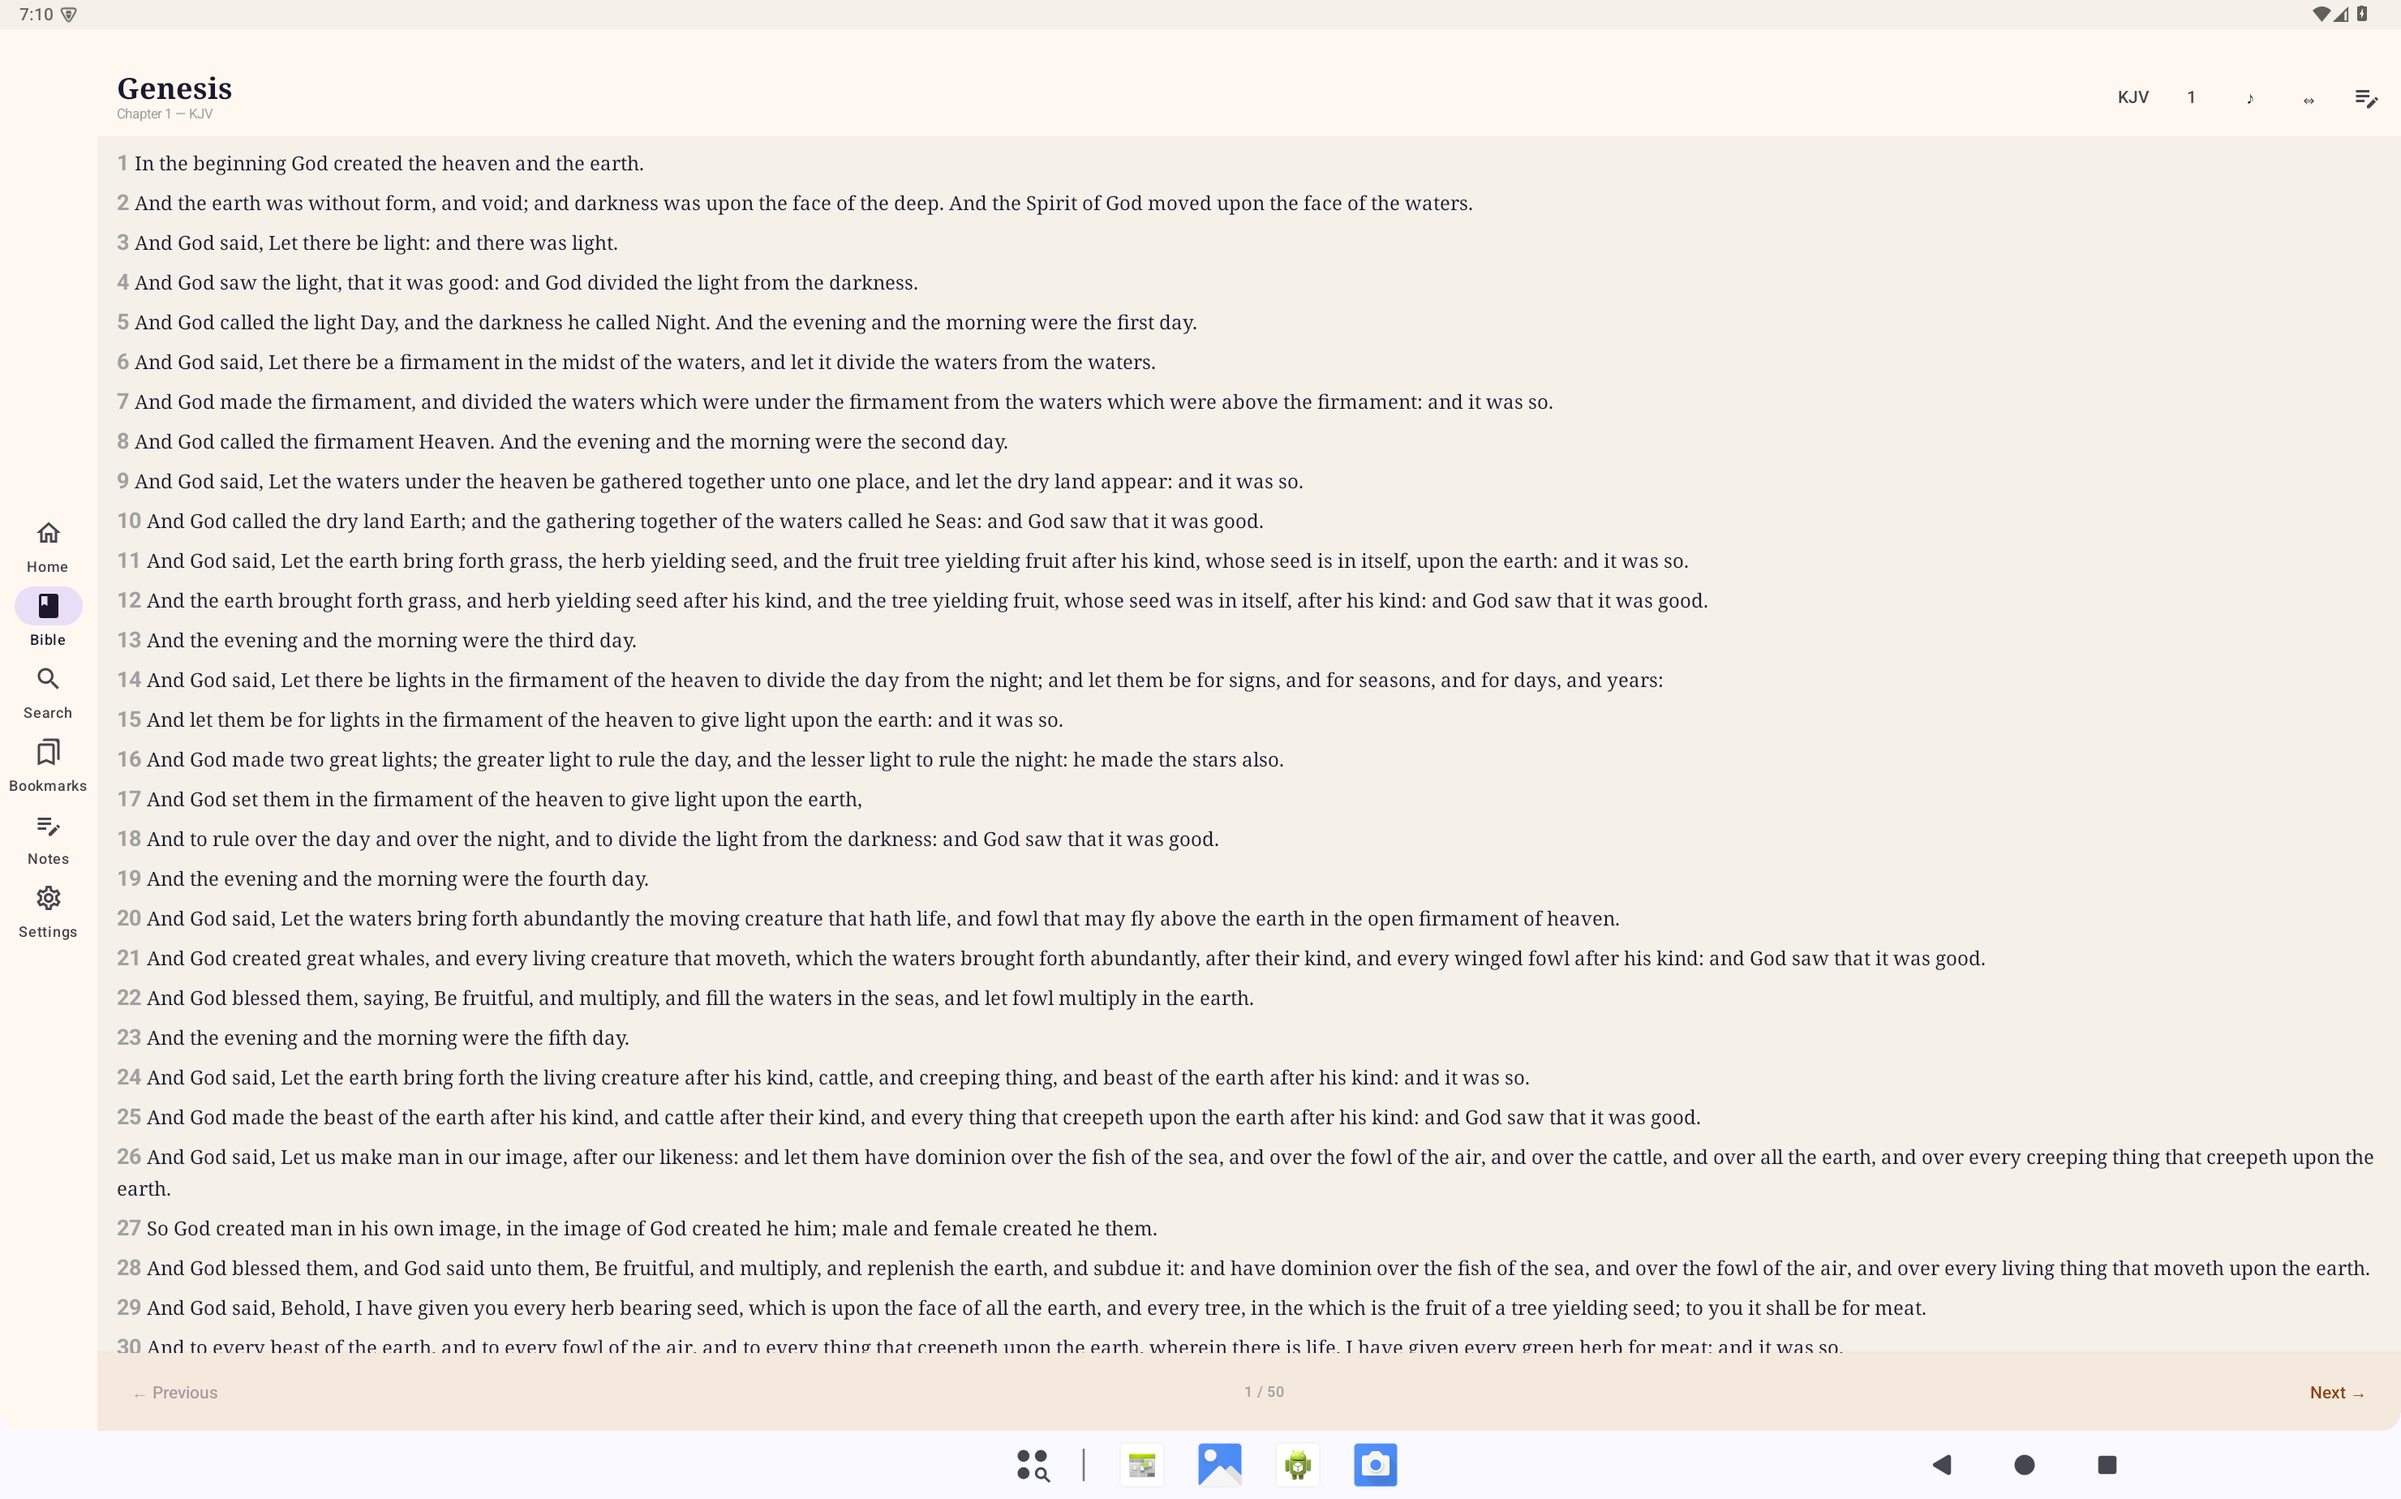
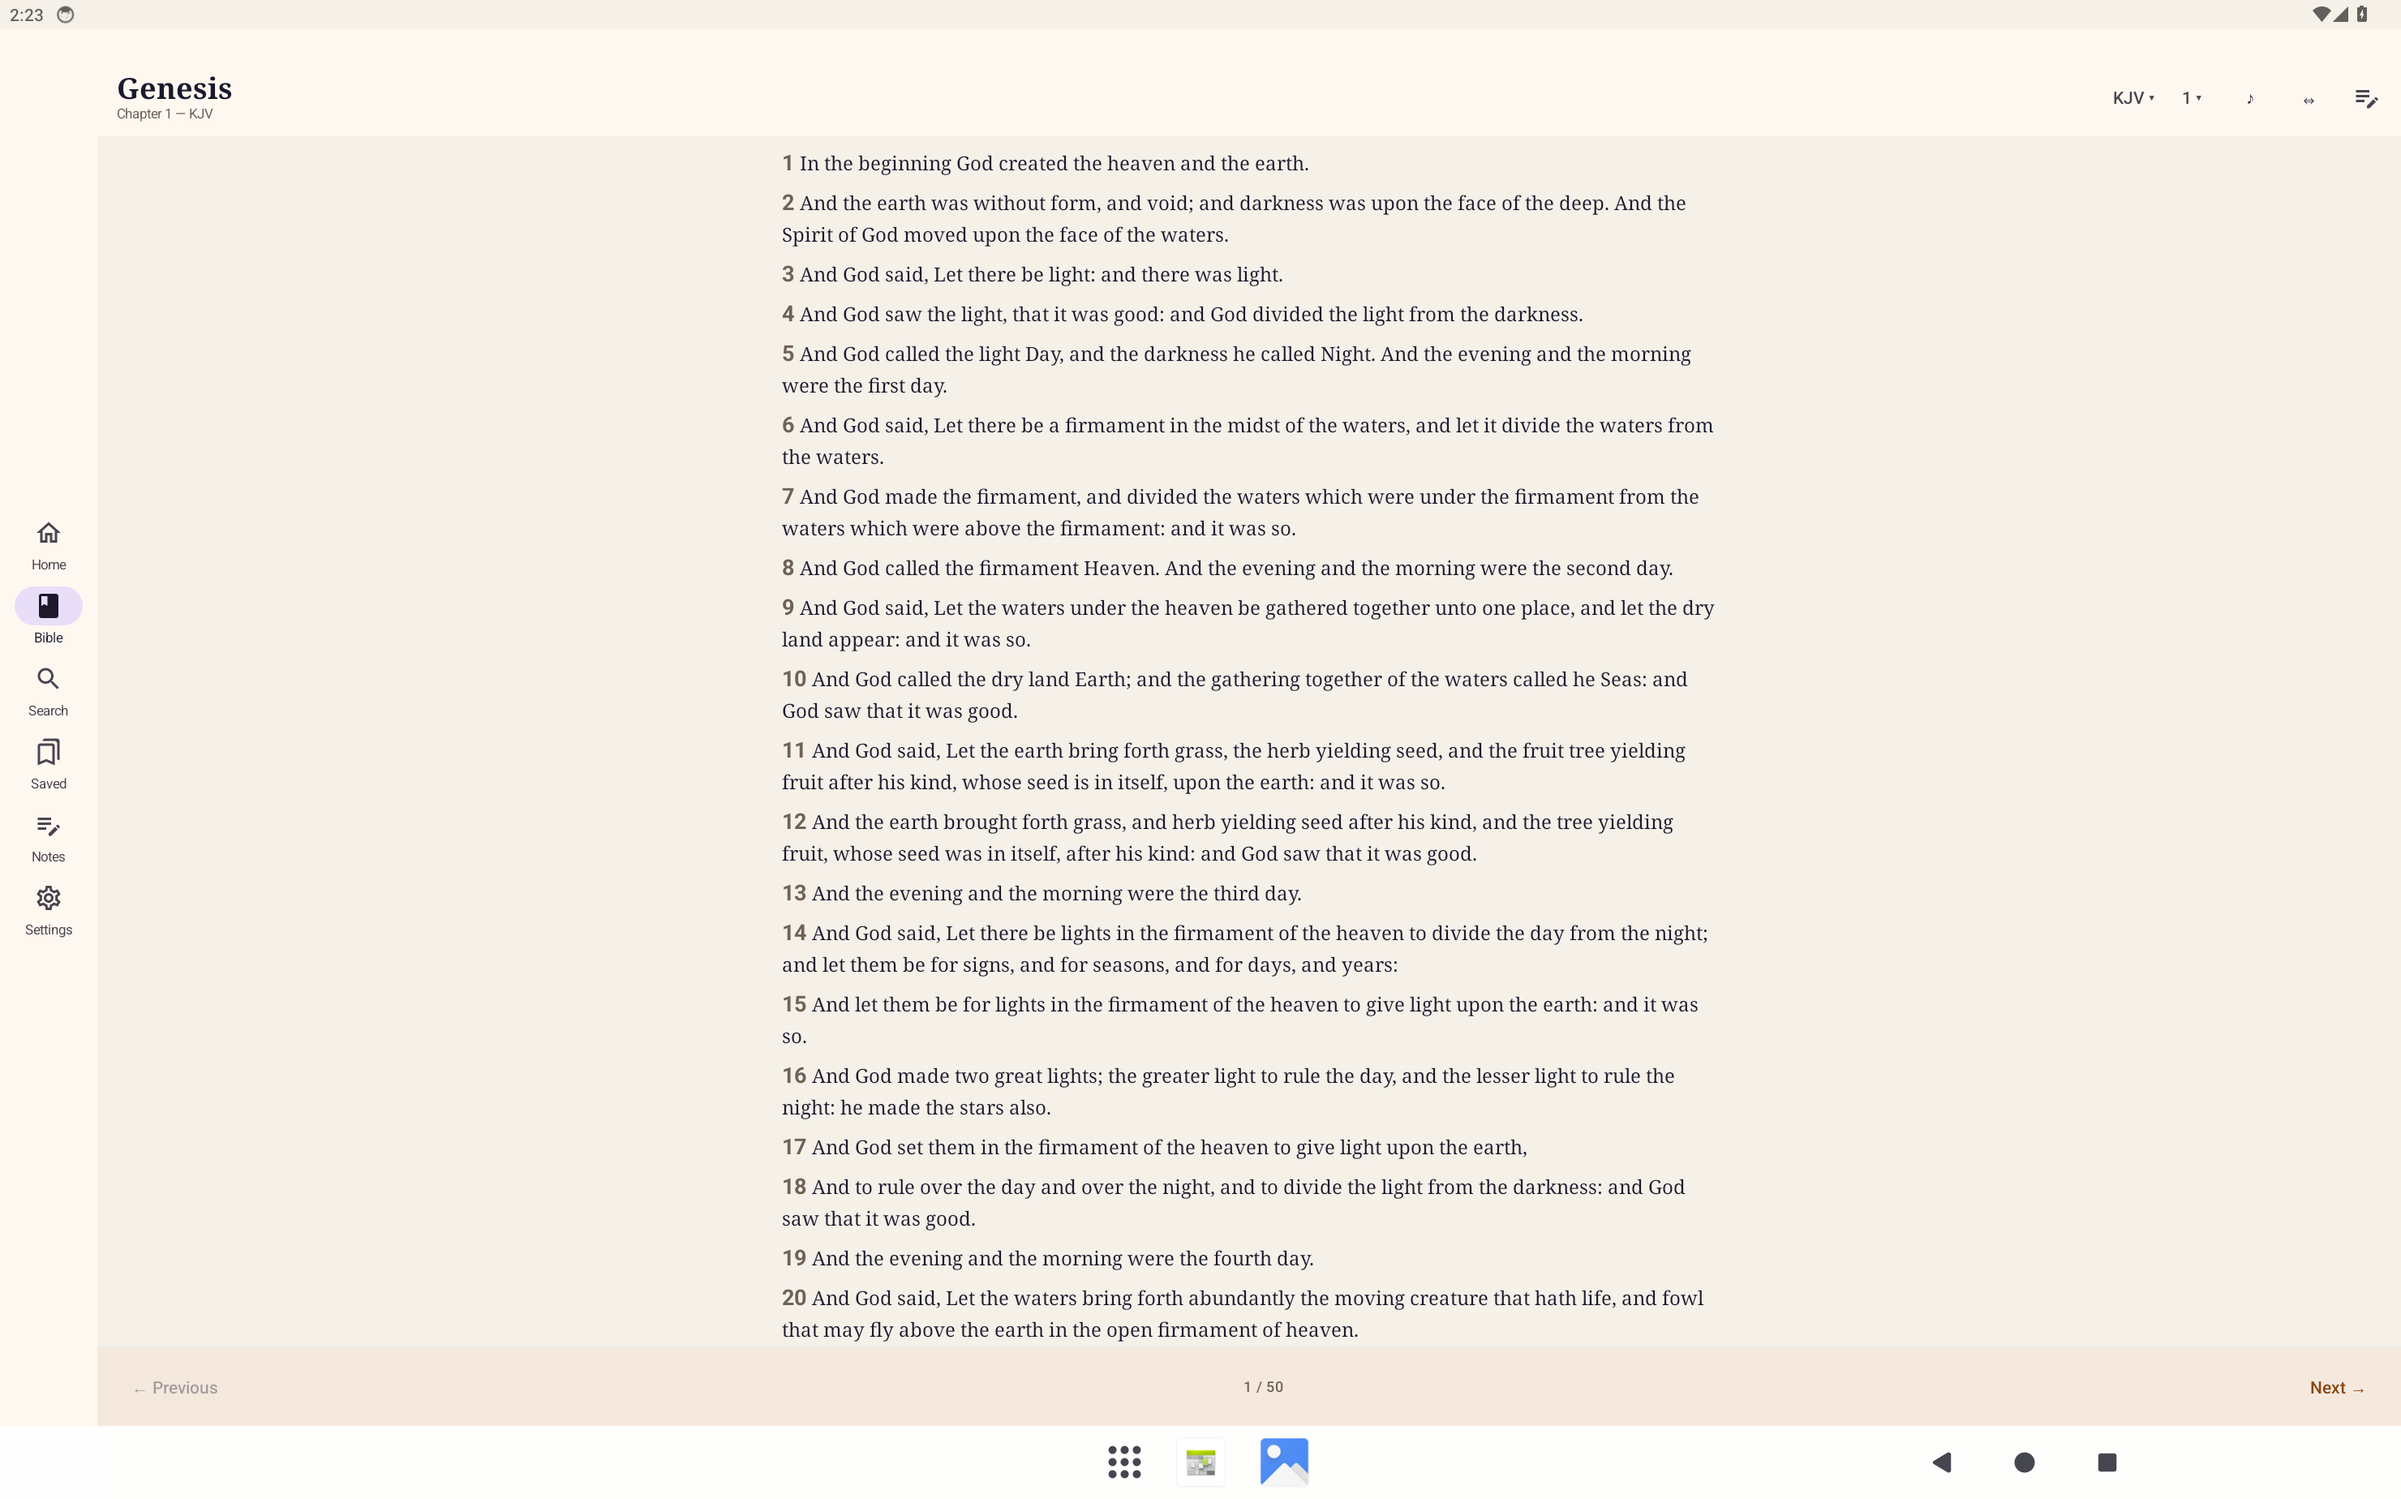
Tablet rail verify, reader max-width fix, structural closeout
widthIn-before-fillMaxSize (was defeated, full-width on tablets);
VerseEntity.id stability contract; CI workflow; NEXT.md checkpoint.

Changed region(s): [[0.0622, 0.0925, 0.9946, 1.0], [0.0, 0.6169, 0.0311, 0.6477], [0.0, 0.0, 0.0311, 0.0308]]

diff --git a/app/src/main/java/com/openbible/data/db/entity/VerseEntity.kt b/app/src/main/java/com/openbible/data/db/entity/VerseEntity.kt
@@ -12,6 +12,13 @@ import androidx.room.PrimaryKey
  * and search across translation/book boundaries.
  *
  * This is the most-frequently-accessed table — indexes are critical.
+ *
+ * ID STABILITY CONTRACT: id is assigned once at import (sequential from 1
+ * across translations in pipeline order — data/import_bible.py; later
+ * translations append at MAX(id)+1 — data/import_translations.py) and is
+ * referenced by bookmarks, highlights, note_verse_links, reading_history,
+ * verse_strong_links and verse_location_links. Never regenerate or reassign
+ * ids — new translations append only, or every verseId FK breaks.
  */
 @Entity(
     tableName = "verses",

diff --git a/NEXT.md b/NEXT.md
@@ -22,23 +22,34 @@ the stable structural issues below.
 - Full findings history: REVIEW-FINDINGS.md; prior session log: OPENSOURCE_HANDOFF.md §15
 
 ## Next actions (in order)
-1. Tablet layout (from HANDOFF §15.3-15.4 — partially stale now):
-   - NavigationRail EXISTS in NavGraph.kt:463 (HANDOFF's "bottom-bar only" claim
-     is outdated) — verify it renders on a tablet AVD, don't rebuild it
-   - Still open: content max-width on reading screens (only 2 `widthIn` uses in
-     BibleScreen.kt); create 10"+ AVD and re-capture screenshots/tablet/
-2. Structural items from HANDOFF §11 that still apply (verified this session):
-   - exported=true receivers in AndroidManifest.xml (daily verse + widget) — no
-     permission gate (§11.7)
-   - runBlocking in DailyVerseReceiver — NOT found in current code; re-grep
-     before acting (§11.4 may be resolved)
-   - No CI (.github/workflows missing) (§11.9)
-   - Prepopulated DB lifecycle: try/catch assets check still present at
-     OpenBibleDatabase.kt:133-139; explicit migrations now exist for v1→v12 so
-     fallbackToDestructiveMigration is GONE (§11.1/§11.3 partially resolved)
-   - ReadingPlanSeeder JSON readings column (§11.6) — low priority
-   - VerseEntity.id stability contract undocumented (§11.2) — matters more now
-     that import_translations.py shares the id space
+1. Tablet layout — DONE 2026-09-05 (emulator-5556, 2960x1848 landscape, this tree):
+   - NavigationRail renders with all 6 labels (Home/Bible/Search/Saved/Notes/Settings);
+     tablet-only compare ⇔ button present in reader header
+   - Fixed defeated max-width: BibleScreen inner Box had
+     fillMaxSize().widthIn(800.dp) — tight fill swallows a later cap, reader ran
+     full-width (~200ch). Reordered to widthIn().fillMaxSize() (compare: 1200.dp),
+     matching BibleReaderScreen.kt:43. Verified centered ~72ch column on-device.
+   - Fresh shots: screenshots/phone/{home,bible,search}.png,
+     screenshots/tablet/{home,bible}.png
+2. Structural items from HANDOFF §11 — CLOSED 2026-09-05 (all verified, no images needed):
+   - exported=true receivers (§11.7): KEPT, contained by construction. Alarm uses
+     explicit immutable PendingIntents (DailyVerseScheduler.kt:38-67); the custom
+     SHOW_DAILY_VERSE action has no intent-filter so only our own explicit intent
+     fires it; onReceive ignores any other action; widget reads only public verse
+     text via immutable tap intents. Manifest comment already documents this.
+   - runBlocking in DailyVerseReceiver (§11.4): RESOLVED — zero hits repo-wide;
+     receiver uses goAsync + IO coroutine.
+   - No CI (§11.9): ADDED .github/workflows/android.yml (JDK 17, unit tests +
+     assembleDebug — the same tasks verified green locally).
+   - Prepopulated DB lifecycle (§11.1/§11.3): RESOLVED — try/catch assets probe +
+     createFromAsset with full explicit migration chain (now 1→15), no
+     fallbackToDestructiveMigration anywhere in the tree.
+   - ReadingPlanSeeder JSON readings (§11.6): RESOLVED by existing code — reader
+     accepts both shapes (ReadingPlanViewModel.kt:136-137), seeder writes the
+     documented one (ReadingPlanDayEntity KDoc).
+   - VerseEntity.id stability (§11.2): DOCUMENTED on the entity — append-only ids
+     (import_bible.py sequential from 1; import_translations.py MAX+1), six
+     verseId dependents listed; never regenerate.
 3. Pending decision: map tile source for English labels — LEFT AS-IS per
    the owner ("will live with it or find another avenue")
 
